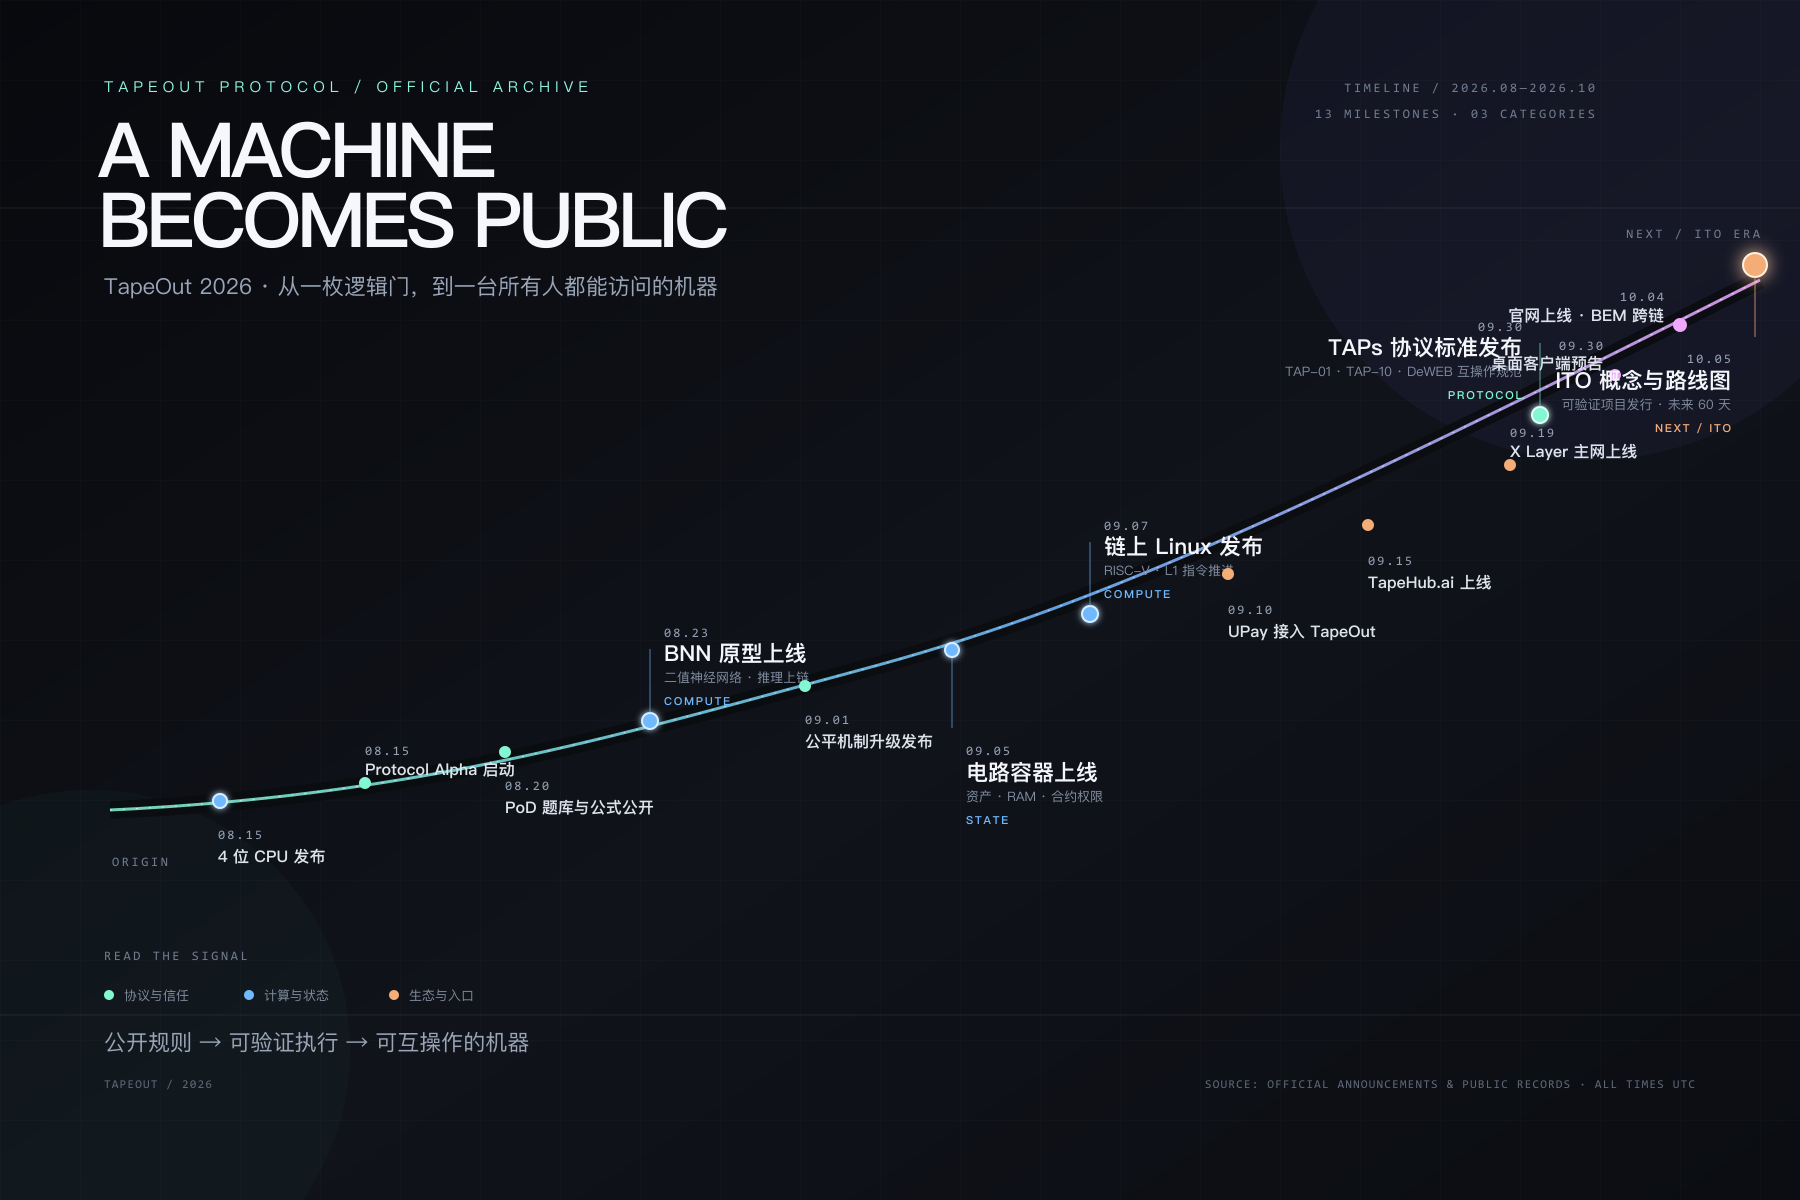
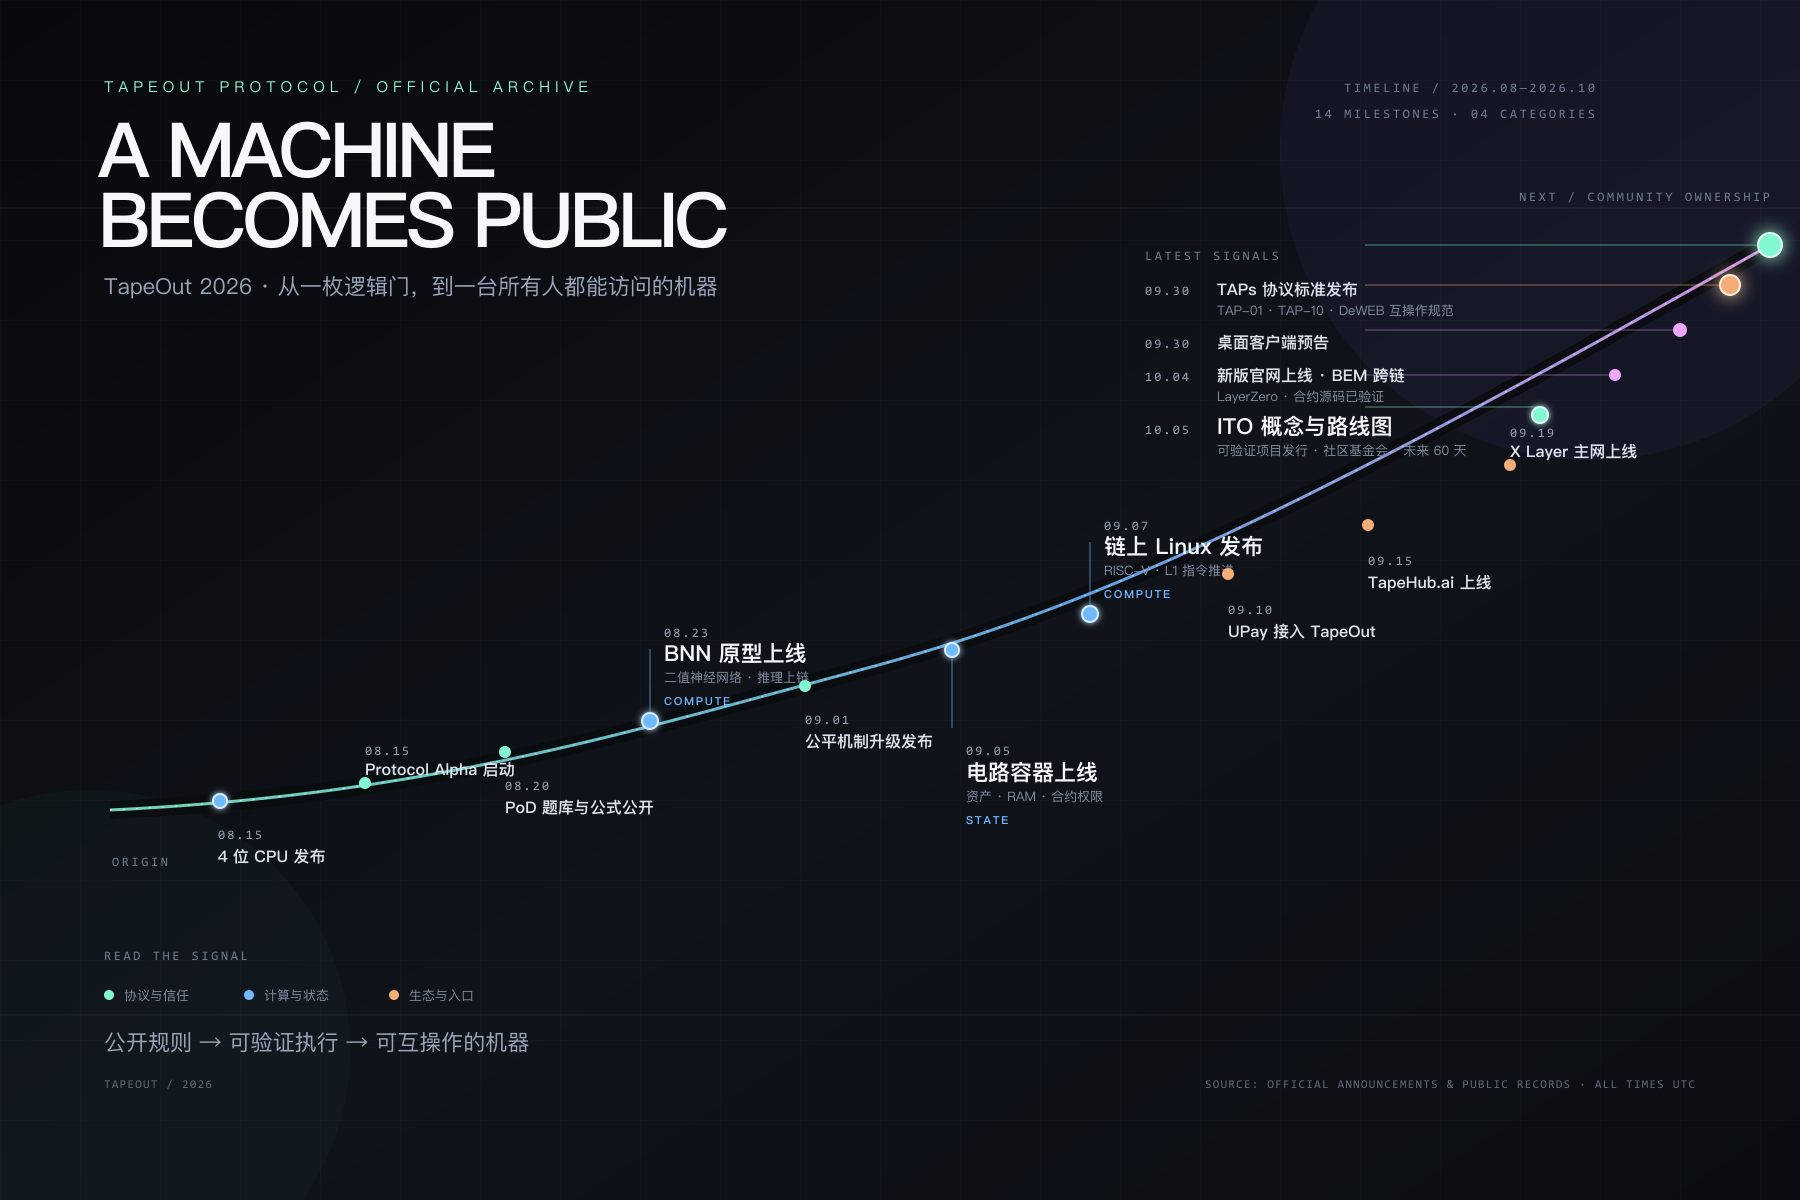
Document TapeOut community foundation milestone

diff --git a/en/tapeout.html b/en/tapeout.html
@@ -90,6 +90,7 @@ OUT = NAND(N1, N1)</code></pre><ol><li><strong>Prepare:</strong> hold enough NAN
         <li class="timeline-item"><span class="timeline-marker" aria-hidden="true"></span><time class="timeline-date" datetime="2026-09-30T16:17:00Z">2026-09-30<br>16:17 UTC</time><div class="timeline-body"><h3>New TapeOut website and desktop clients announced</h3><p>The founder announced that a redesigned TapeOut website is about to launch, together with desktop clients for macOS and Windows. The announcement expands TapeOut's access layer beyond a web page and points toward a more approachable entry point for the protocol and its DeWEB applications.</p><p><a href="https://x.com/Blonskr/status/2105331294838341783" target="_blank" rel="noreferrer">View announcement →</a></p></div></li>
         <li class="timeline-item"><span class="timeline-marker" aria-hidden="true"></span><time class="timeline-date" datetime="2026-10-04T02:23:00Z">2026-10-04<br>02:23 UTC</time><div class="timeline-body"><h3>Redesigned TapeOut website goes live with cross-chain BEM</h3><p>The rebuilt official website went live. Its major new capability lets $BEM move between BNB Chain and X Layer through 1:1 lock-and-mint, powered by LayerZero with a typical 1–2 minute delivery time. The founder also stated that both chain contracts have verified source code, making this the first official website release that combines a new access layer with a live cross-chain asset rail.</p><p><a href="https://x.com/Blonskr/status/2106450090189885705" target="_blank" rel="noreferrer">View announcement →</a></p></div></li>
         <li class="timeline-item"><span class="timeline-marker" aria-hidden="true"></span><time class="timeline-date" datetime="2026-10-05T06:19:02Z">2026-10-05<br>06:19 UTC</time><div class="timeline-body"><h3>ITO concept and the next 60-day roadmap published</h3><p>The founder introduced ITO, or “Initial Tape-Out”: a new project-launch format centered on circuit containers. Unlike an ICO's whitepaper, an IEO's exchange endorsement, or an IDO's liquidity pool, an ITO is described as delivering a genuinely verifiable on-chain production tool or on-chain computing project. The two-month roadmap also prioritizes DeWEB developer tools, deeper BEM partnerships, miner cross-chain access, TapeOut V2 component slots with revenue sharing, and efforts to bring TapeKit into major wallets and regional smartphone platforms.</p><p><a href="https://x.com/Blonskr/status/2106992541212221692" target="_blank" rel="noreferrer">View roadmap announcement →</a></p></div></li>
+        <li class="timeline-item"><span class="timeline-marker" aria-hidden="true"></span><time class="timeline-date" datetime="2026-10-05T16:42:38Z">2026-10-05<br>16:42 UTC</time><div class="timeline-body"><h3>Founder backs independent community foundations and pledges 700 BEM</h3><p>The founder endorsed the creation of two or three independent TapeOut community foundations, said the core team would remain outside foundation management, and promised continued technical support. He also pledged a personal donation of 700 BEM once BruceBlue's community foundation formally launches and begins accepting donations.</p><p><a href="https://x.com/Blonskr/status/2107149477140435418" target="_blank" rel="noreferrer">View announcement →</a></p></div></li>
       </ol><p class="timeline-note">Note: the official data report defines its measurement window as 2026-08-14 to 2026-09-09. This timeline uses 2026-08-15, the founder's first public technical prototype post, as the public narrative starting point. All times are UTC.</p></section>
     </main>
   </div>

diff --git a/zh-cn/tapeout.html b/zh-cn/tapeout.html
@@ -90,6 +90,7 @@ OUT = NAND(N1, N1)</code></pre><ol><li><strong>准备：</strong>拥有足够的
         <li class="timeline-item"><span class="timeline-marker" aria-hidden="true"></span><time class="timeline-date" datetime="2026-09-30T16:17:00Z">2026-09-30<br>16:17 UTC</time><div class="timeline-body"><h3>新版 TapeOut 官网与桌面客户端公布</h3><p>创始人宣布新版 TapeOut 官网即将上线，同时推出 macOS 和 Windows 桌面客户端。这让 TapeOut 的访问入口从网页进一步扩展到桌面应用，也意味着协议和 DeWEB 应用将拥有更容易使用的官方入口。</p><p><a href="https://x.com/Blonskr/status/2105331294838341783" target="_blank" rel="noreferrer">查看公告 →</a></p></div></li>
         <li class="timeline-item"><span class="timeline-marker" aria-hidden="true"></span><time class="timeline-date" datetime="2026-10-04T02:23:00Z">2026-10-04<br>02:23 UTC</time><div class="timeline-body"><h3>新版 TapeOut 官网正式上线，BEM 开启跨链</h3><p>新版官方官网正式上线，并新增 $BEM 在 BNB Chain 与 X Layer 之间的 1:1 锁仓铸造跨链功能，由 LayerZero 传递消息，通常 1–2 分钟到账。创始人同时表示两条链的合约源码均已在区块浏览器验证，这是一次把全新访问入口与真实跨链资产通道同时交付的重大版本发布。</p><p><a href="https://x.com/Blonskr/status/2106450090189885705" target="_blank" rel="noreferrer">查看官方公告 →</a></p></div></li>
         <li class="timeline-item"><span class="timeline-marker" aria-hidden="true"></span><time class="timeline-date" datetime="2026-10-05T06:19:02Z">2026-10-05<br>06:19 UTC</time><div class="timeline-body"><h3>ITO 概念与未来 60 天路线图发布</h3><p>创始人提出 ITO（Initial Tape-Out，首次流片发行）概念：以电路容器为核心的新型项目发行方式。与 ICO 交付白皮书、IEO 交付交易所背书、IDO 交付流动性池不同，ITO 交付的是真正可验证的链上生产工具项目或链上计算项目。未来两个月的路线图还包括 DeWEB 核心开发者工具、围绕 BEM 的深度合作、矿机跨链、支持收入分成的 TapeOut V2 元件插槽，以及推动主流钱包和手机厂商内置 TapeKit。</p><p><a href="https://x.com/Blonskr/status/2106992541212221692" target="_blank" rel="noreferrer">查看路线图公告 →</a></p></div></li>
+        <li class="timeline-item"><span class="timeline-marker" aria-hidden="true"></span><time class="timeline-date" datetime="2026-10-05T16:42:38Z">2026-10-05<br>16:42 UTC</time><div class="timeline-body"><h3>创始人支持成立独立社区基金会，并承诺捐赠 700 BEM</h3><p>创始人支持同时存在 2–3 个独立的 TapeOut 社区基金会，表示核心开发团队不会参与基金会具体运营，但会持续提供技术支持；同时承诺，在 BruceBlue 发起的社区基金会正式成立并接受捐赠后，以个人名义捐赠 700 BEM。</p><p><a href="https://x.com/Blonskr/status/2107149477140435418" target="_blank" rel="noreferrer">查看官方公告 →</a></p></div></li>
       </ol><p class="timeline-note">说明：官方数据通告把统计区间写为 2026-08-14 至 2026-09-09；本时间线以创始人首次公开 TapeOut 技术原型的 2026-08-15 作为公开叙事起点。所有时间均为 UTC。</p></section>
     </main>
   </div>
